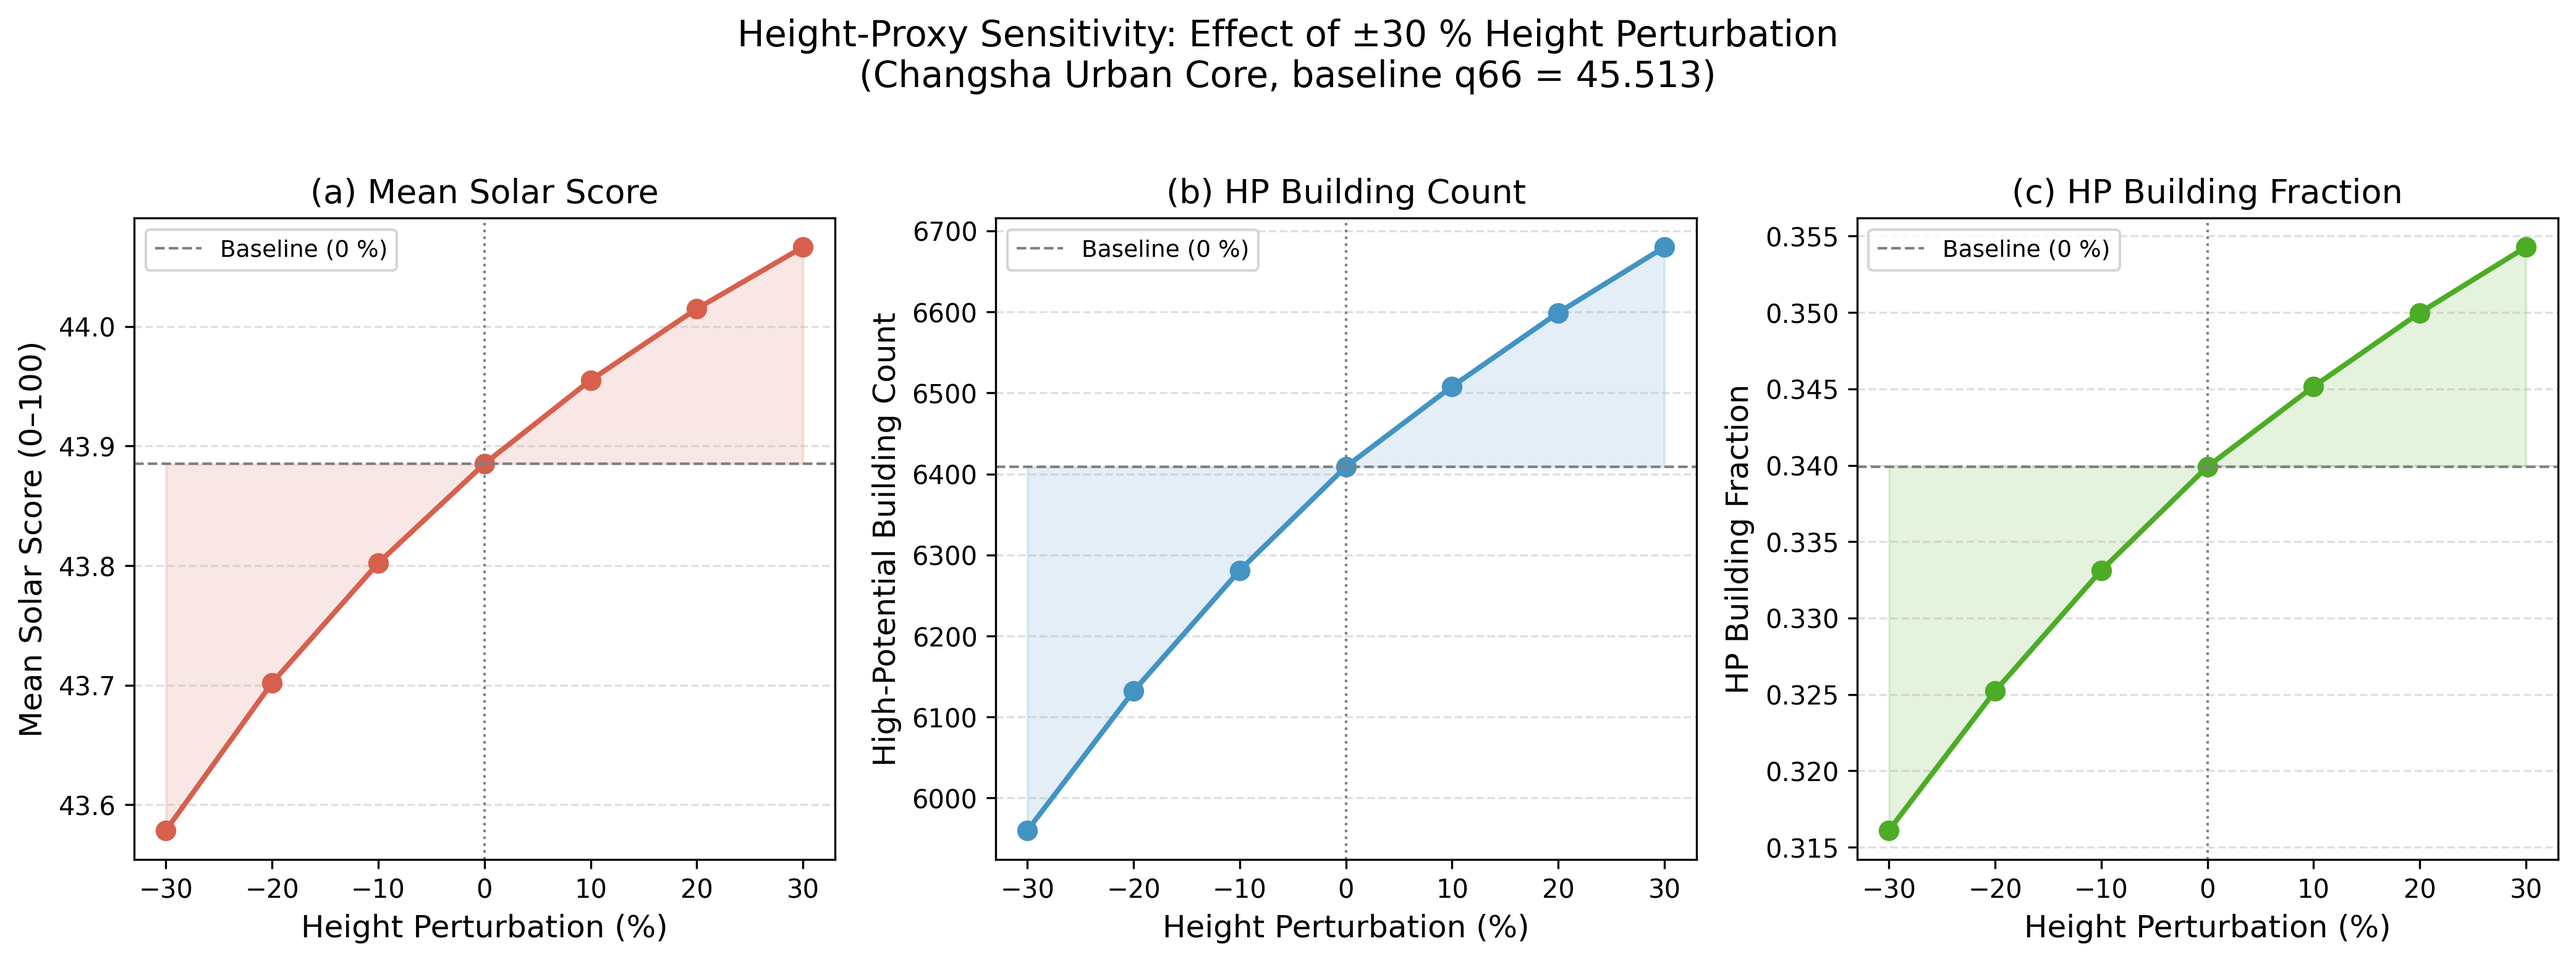
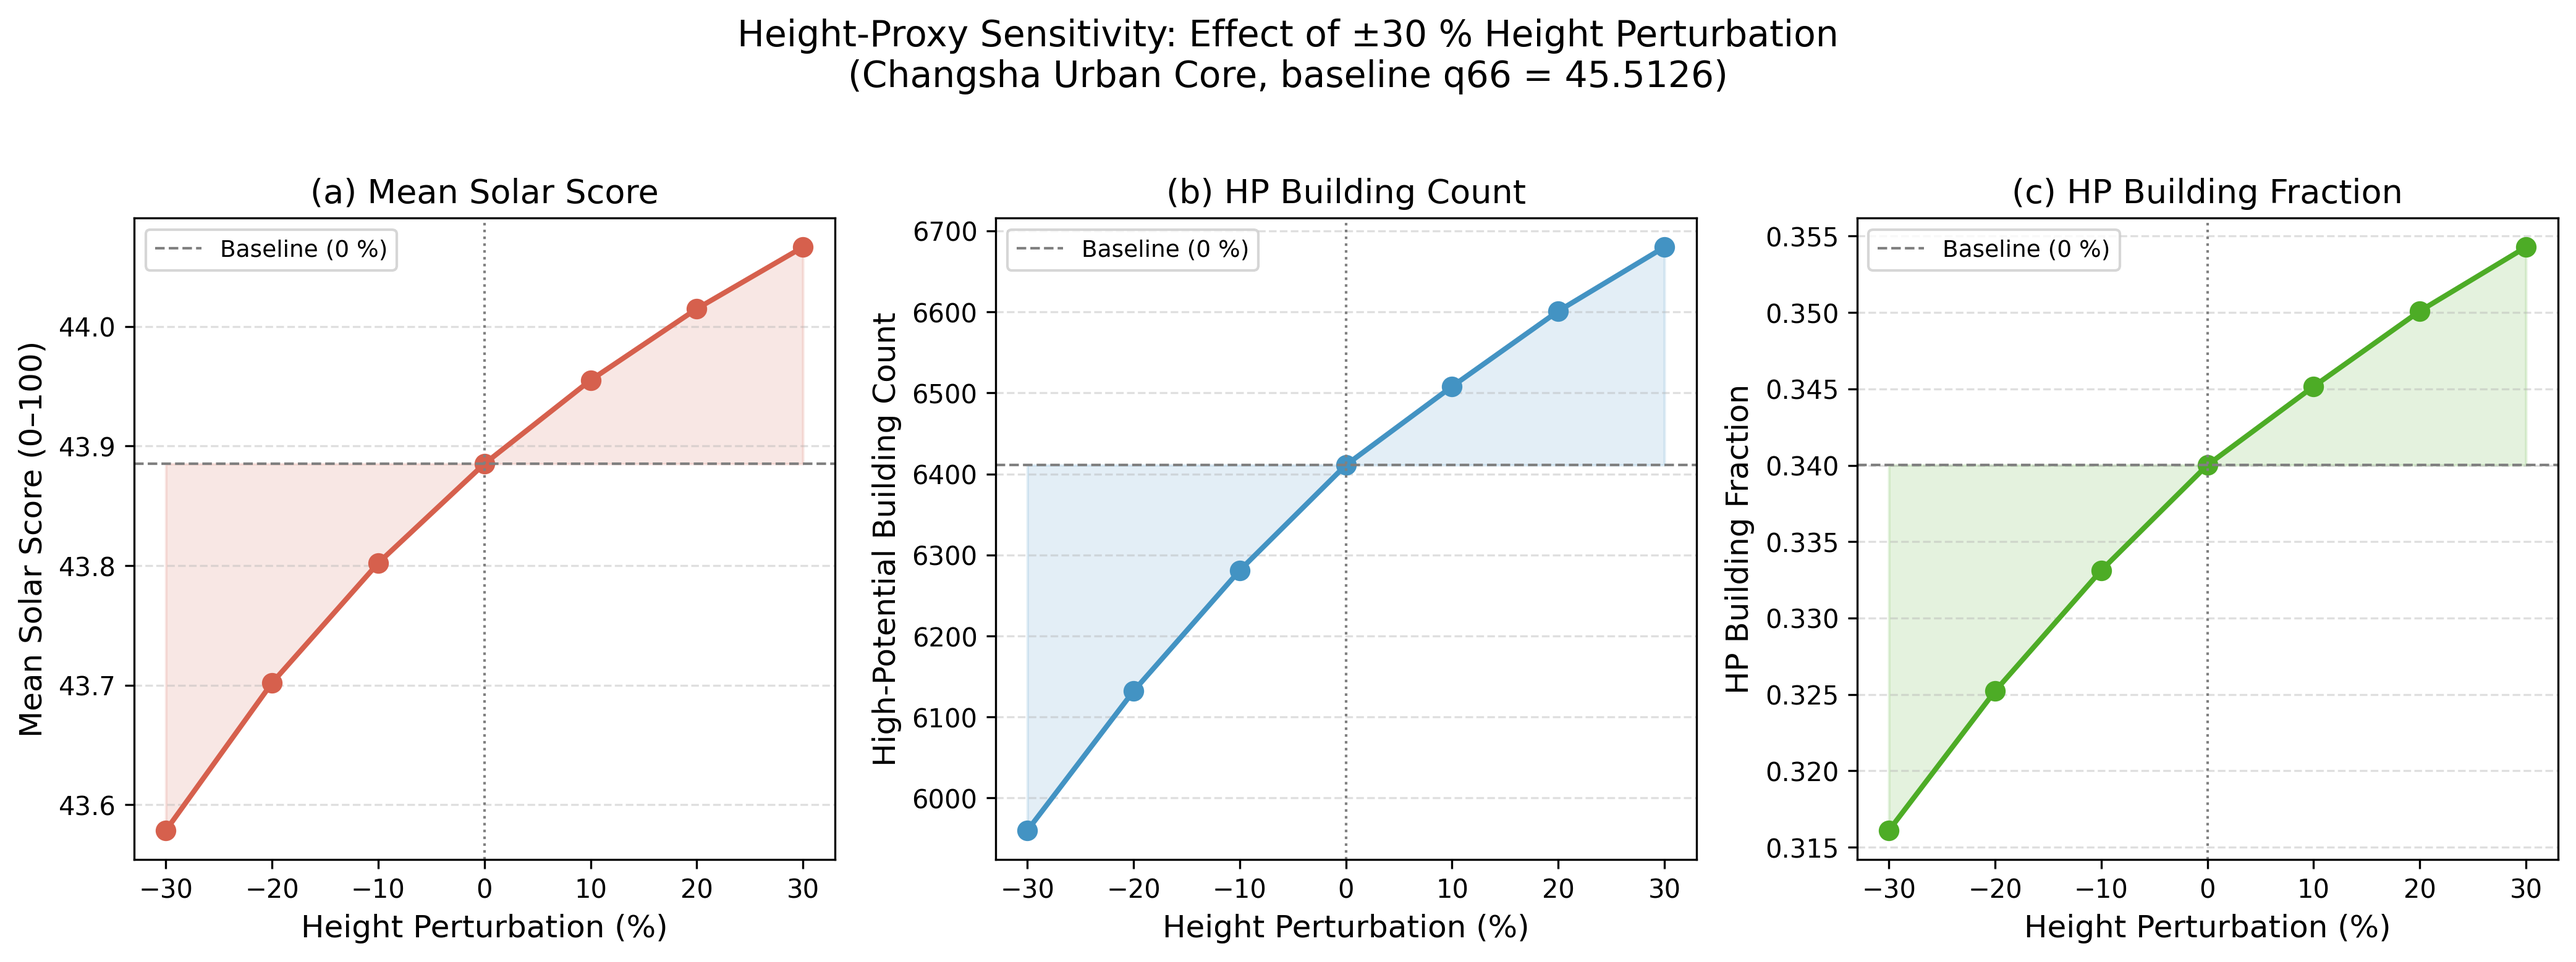
fix: derive the q66 threshold in height_proxy_sensitivity instead of rounding
The script hard-coded BASELINE_Q66 = 45.513. The true q66 is
45.51261227233157, so the rounded literal sat above the real boundary and
dropped the two buildings scoring in between. The baseline high-potential
count came out as 6,409 while the rest of the paper reports 6,411.

The threshold is now computed at runtime from the pipeline's stored
solar_potential_score using the same rule as baseline_solar_potential.py
(valid_scores.quantile(0.66)), and is logged. Nothing is hard-coded, so the
two cannot drift apart again; the figure caption also picks up the derived
value.

Rebuilt Table S3 (mean scores unaffected — the threshold does not enter
them):

  pert  factor  mean score    change    HP count   HP change
  -30%     0.7   43.578590   -0.6986%       5960    -7.0348%
  -20%     0.8   43.701964   -0.4175%       6132    -4.3519%
  -10%     0.9   43.802166   -0.1892%       6281    -2.0278%
   +0%     1.0   43.885185   +0.0000%       6411    +0.0000%
  +10%     1.1   43.955104   +0.1593%       6508    +1.5130%
  +20%     1.2   44.014805   +0.2954%       6601    +2.9637%
  +30%     1.3   44.066380   +0.4129%       6680    +4.1959%

Only two absolute counts move: baseline 6,409 -> 6,411 and +20%
6,599 -> 6,601. The two boundary buildings fall inside the band only at
those factors. All percentage changes shift because the denominator moved.

  mean score  -0.6986% to +0.4129%   (unchanged)
  HP count    -7.0348% to +4.1959%   (was -7.0058% to +4.2284%)

Changed region(s): [[0.3119, 0.0616, 0.6862, 0.0924], [0.4055, 0.4621, 0.655, 0.4929], [0.7486, 0.4621, 0.9669, 0.4929]]

diff --git a/src/sensitivity/height_proxy_sensitivity.py b/src/sensitivity/height_proxy_sensitivity.py
@@ -15,8 +15,11 @@ Scoring formula (mirrors baseline_solar_potential.py)
     base_score  = 0.65 * area_score + 0.35 * height_score
     solar_potential_score = clip(base_score * category_multiplier * 100, 0, 100)
 
-Classification uses the *baseline* q66 threshold (45.513) so that all
-perturbation scenarios are compared against the same reference boundary.
+Classification uses the *baseline* q66 threshold so that all perturbation
+scenarios are compared against the same reference boundary. That threshold is
+derived at runtime from the pipeline's stored solar_potential_score, exactly as
+baseline_solar_potential.py derives it, so the baseline high-potential count
+matches the 6,411 reported elsewhere.
 
 Inputs
 ------
@@ -57,8 +60,13 @@ CATEGORY_MULTIPLIERS = {
     "mixed_unknown": 0.95,
 }
 
-# Baseline q66 threshold (verified pipeline value)
-BASELINE_Q66 = 45.513
+# Tier boundary. Derived at runtime from the pipeline's own scores rather than
+# hard-coded: this file previously carried the rounded literal 45.513, which sits
+# above the true q66 of 45.51261227233157 and therefore excluded the two
+# buildings scoring inside that gap. The baseline high-potential count came out
+# as 6,409 against the 6,411 reported everywhere else. Deriving the threshold
+# keeps the two in step automatically.
+Q66_QUANTILE = 0.66
 
 
 # ---------------------------------------------------------------------------
@@ -136,7 +144,7 @@ def score_with_perturbation(
 # Plotting
 # ---------------------------------------------------------------------------
 
-def make_sensitivity_plot(df: pd.DataFrame, baseline_row: pd.Series,
+def make_sensitivity_plot(df: pd.DataFrame, baseline_row: pd.Series, baseline_q66: float,
                           output_path: Path) -> None:
     """
     Three-panel figure:
@@ -176,7 +184,7 @@ def make_sensitivity_plot(df: pd.DataFrame, baseline_row: pd.Series,
 
     fig.suptitle(
         "Height-Proxy Sensitivity: Effect of ±30 % Height Perturbation\n"
-        "(Changsha Urban Core, baseline q66 = 45.513)",
+        f"(Changsha Urban Core, baseline q66 = {baseline_q66:.4f})",
         fontsize=14,
         y=1.03,
     )
@@ -218,10 +226,24 @@ def main() -> None:
             buildings["footprint_area_m2"], errors="coerce"
         ).fillna(0)
 
+    # Derive the tier boundary the same way baseline_solar_potential.py does,
+    # from the pipeline's own scores. Never hard-code or round it.
+    valid_scores = pd.to_numeric(
+        buildings["solar_potential_score"], errors="coerce"
+    ).dropna()
+    if valid_scores.empty:
+        raise ValueError("No valid numeric solar_potential_score values found.")
+    baseline_q66 = float(valid_scores.quantile(Q66_QUANTILE))
+    n_hp_pipeline = int((valid_scores >= baseline_q66).sum())
+    logging.info(
+        "Baseline q66 derived from pipeline scores: %.14f (high-potential: %d)",
+        baseline_q66, n_hp_pipeline,
+    )
+
     rows = []
     for delta in PERTURBATION_FACTORS:
         logging.info("Evaluating perturbation %+.0f %% …", delta * 100)
-        row = score_with_perturbation(buildings, delta, BASELINE_Q66)
+        row = score_with_perturbation(buildings, delta, baseline_q66)
         logging.info(
             "  factor=%.2f → mean_score=%.3f, HP count=%d (%.1f%%)",
             row["height_factor"],
@@ -237,7 +259,7 @@ def main() -> None:
     print(df.to_string(index=False))
 
     baseline_row = df[df["perturbation_pct"] == 0].iloc[0]
-    make_sensitivity_plot(df, baseline_row, OUTPUT_FIG)
+    make_sensitivity_plot(df, baseline_row, baseline_q66, OUTPUT_FIG)
     logging.info("Done.")
 
 

diff --git a/CHANGELOG.md b/CHANGELOG.md
@@ -5,6 +5,53 @@ Format follows [Keep a Changelog](https://keepachangelog.com/en/1.1.0/).
 
 ---
 
+## [1.6.0] — 2026-08-09
+
+### Fixed — affects Supplementary Table S3
+
+#### Height-sensitivity threshold is derived, not hard-coded
+
+`height_proxy_sensitivity.py` carried `BASELINE_Q66 = 45.513`, a rounded literal.
+The true q66 is 45.51261227233157, so the rounded value sat *above* the real
+boundary and excluded the two buildings scoring inside that gap. The baseline
+high-potential count came out as 6,409 against the 6,411 reported everywhere
+else in the paper.
+
+The threshold is now derived at runtime from the pipeline's stored
+`solar_potential_score`, using the same rule as `baseline_solar_potential.py`
+(`valid_scores.quantile(0.66)`). It is no longer hard-coded anywhere, so the two
+cannot drift apart again. The figure caption picks up the derived value as well.
+
+Rebuilt Table S3 (mean scores are unaffected — the threshold does not enter
+them):
+
+| Perturbation | Factor | Mean score | Change | HP count | HP change | HP fraction |
+|---:|---:|---:|---:|---:|---:|---:|
+| −30% | 0.7 | 43.578590 | −0.6986% | 5,960 | **−7.0348%** | 0.316097 |
+| −20% | 0.8 | 43.701964 | −0.4175% | 6,132 | **−4.3519%** | 0.325219 |
+| −10% | 0.9 | 43.802166 | −0.1892% | 6,281 | **−2.0278%** | 0.333121 |
+| **0%** | 1.0 | 43.885185 | 0.0000% | **6,411** | 0.0000% | 0.340016 |
+| +10% | 1.1 | 43.955104 | +0.1593% | 6,508 | **+1.5130%** | 0.345160 |
+| +20% | 1.2 | 44.014805 | +0.2954% | **6,601** | **+2.9637%** | 0.350093 |
+| +30% | 1.3 | 44.066380 | +0.4129% | 6,680 | **+4.1959%** | 0.354283 |
+
+Only two absolute counts move: the baseline (6,409 → 6,411) and the +20% row
+(6,599 → 6,601). The other five are unchanged; the two boundary buildings fall
+inside the band only at those factors. Every percentage change shifts slightly
+because the denominator changed.
+
+Revised ranges for the manuscript:
+
+    mean score      −0.6986% to +0.4129%   (unchanged)
+    HP count        −7.0348% to +4.1959%   (was −7.0058% to +4.2284%)
+
+This supersedes the "Correction — Supplementary Table S3 range" note in 1.5.0,
+which reported the ranges as computed against the 6,409 baseline. The correction
+recorded there — that the previously published upper bound of +7.0% was
+wrong — still stands; only the exact figures are updated.
+
+---
+
 ## [1.5.0] — 2026-08-09
 
 ### Documentation — Section 4.7 renumbering

diff --git a/README.md b/README.md
@@ -127,7 +127,7 @@ version before submission.
 |---|---|---|
 | `src/sensitivity/grid_size_sensitivity.py` | 4.5.1 | Grid mean score 44.343–46.207 across 250/500/750/1000 m (spread 4.204% of minimum) |
 | `src/sensitivity/threshold_sensitivity.py` | 4.5.2 | High-potential count vs quantile cutoff, q50–q80 |
-| `src/sensitivity/height_proxy_sensitivity.py` | 4.5.3 | ±30% height perturbation: mean score −0.699% / +0.413%; HP count −7.006% / +4.228% |
+| `src/sensitivity/height_proxy_sensitivity.py` | 4.5.3, Table S3 | ±30% height perturbation: mean score −0.6986% / +0.4129%; HP count −7.0348% / +4.1959% (baseline 6,411; q66 derived at runtime, not hard-coded) |
 | `src/sensitivity/category_ablation.py` | 4.5.4 | Building ρ = 0.992377, grid ρ = 0.990315, 160 buildings changed (0.849%), mean abs diff 0.280 |
 | `src/sensitivity/weight_sensitivity.py` | 4.4.4, 4.4.6 | Weight variants W1–W4; minimum pairwise ρ = 0.958726; area-only vs baseline: building ρ = 0.971907, grid ρ = 0.941782, 702 buildings change tier (94.53% retained, Jaccard 0.8962) |
 
